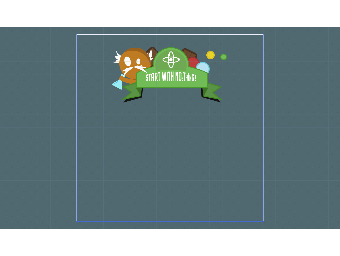
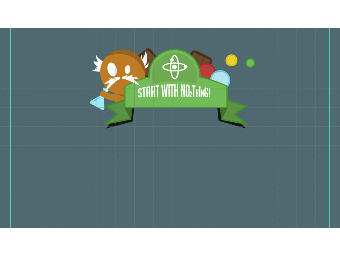
fitscreen

Changed region(s): [[0.2647, 0.1875, 0.7647, 0.5], [0.0, 0.8438, 1.0, 0.9062], [0.0, 0.0938, 1.0, 0.1562]]

diff --git a/NOThInG/src/types/Level_Select_Button/oncreate.js b/NOThInG/src/types/Level_Select_Button/oncreate.js
@@ -4,6 +4,6 @@ this.setLevelName = inLevelName => {
     this.levelName = inLevelName
     
     this.text = this.addChild(new PIXI.Text(this.levelName, ct.styles.get('level_select_text')))
-    this.text.x -= 25
+    this.text.x -= 30
     this.text.y -= 25
 }

diff --git a/NOThInG/src/rooms/Menu_Level_Select/oncreate.js b/NOThInG/src/rooms/Menu_Level_Select/oncreate.js
@@ -1,8 +1,8 @@
 let x = 0;
 let max_x =  5;
 
-let initial_x = 200;
-let initial_y = 400;
+let initial_x = 850;
+let initial_y = 750;
 
 
 
